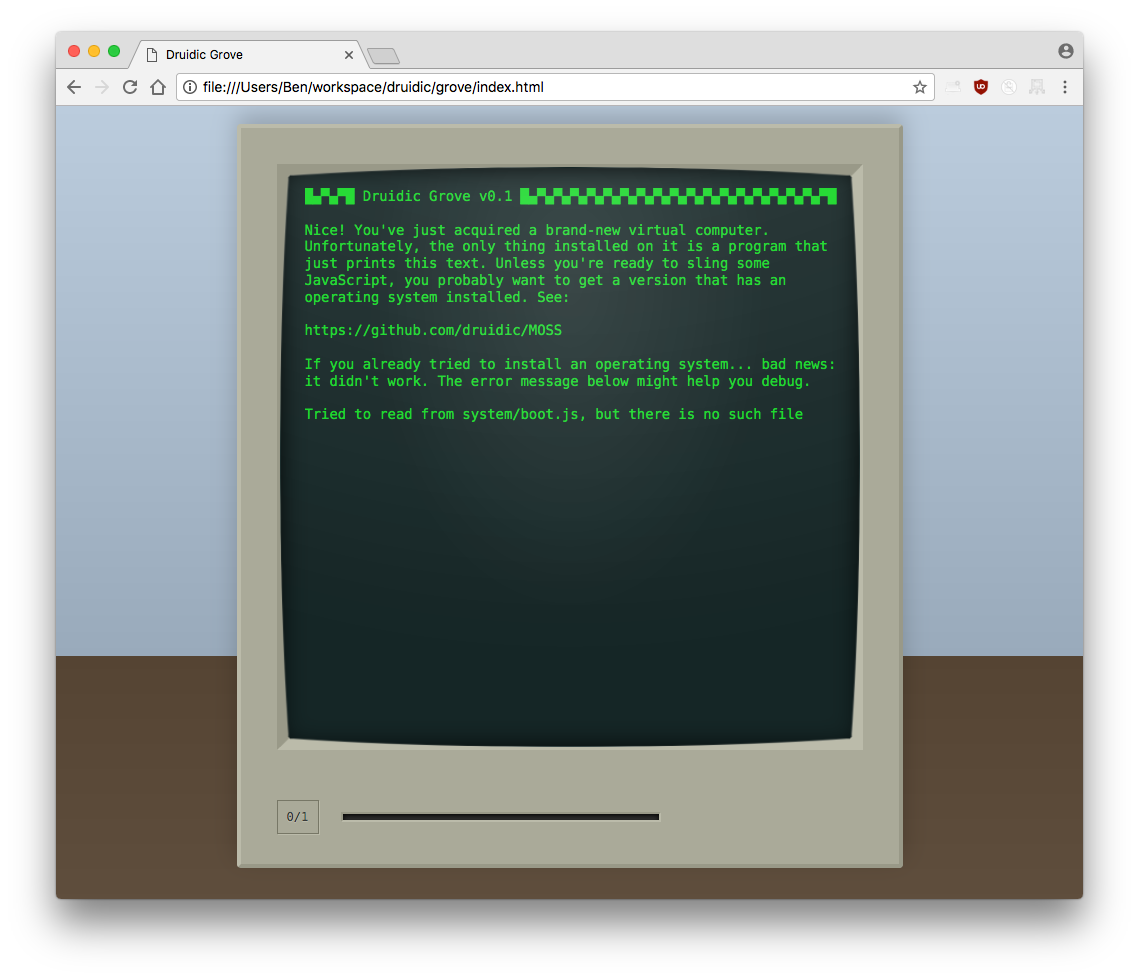
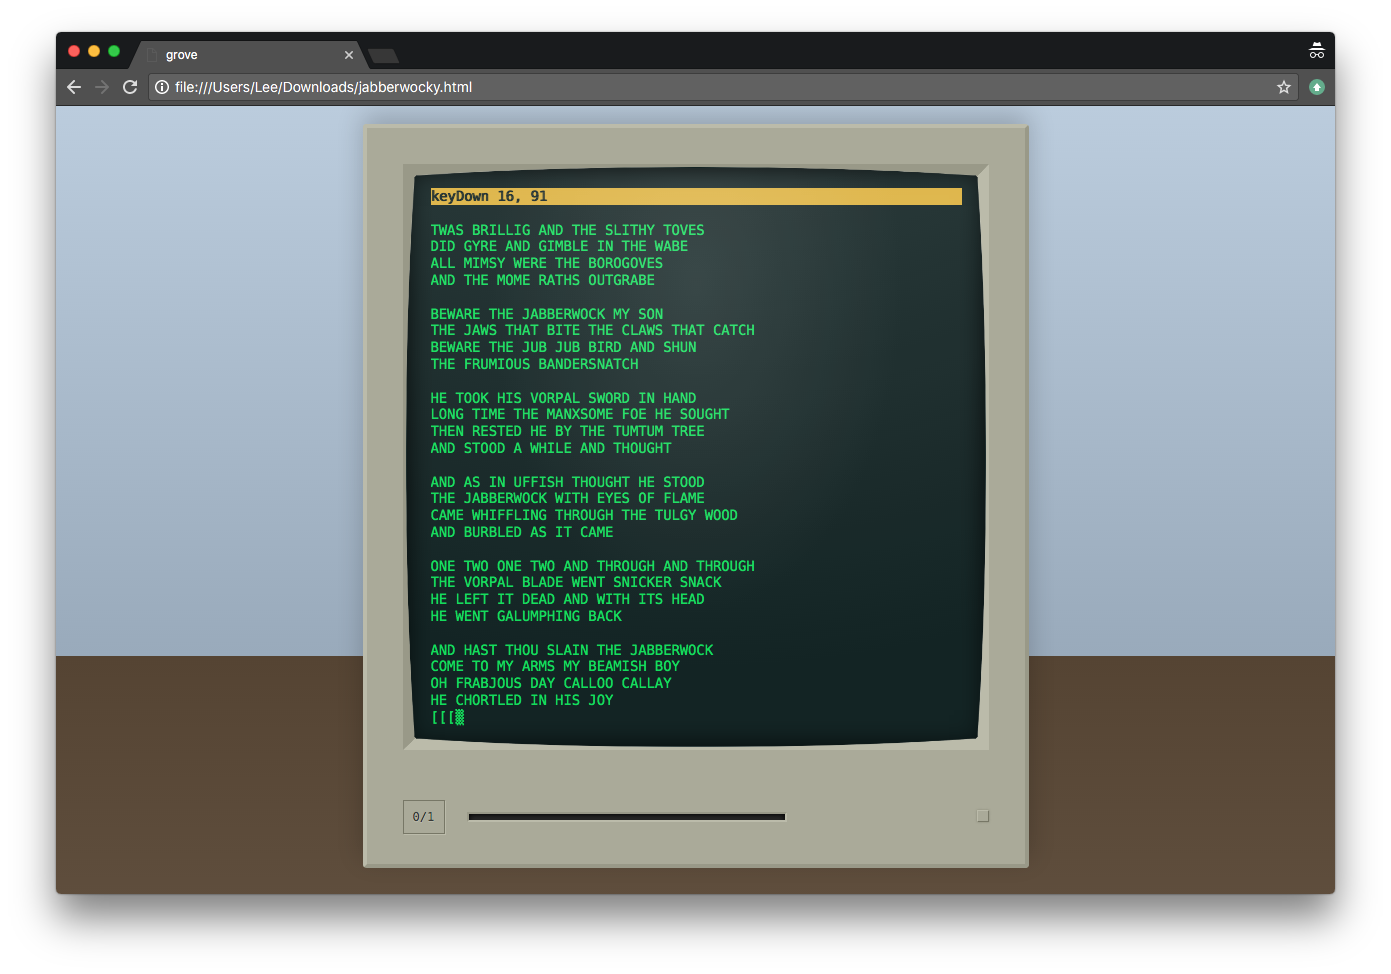
Update screenshot

Changed region(s): [[0.0307, 0.0308, 0.9833, 0.924]]

diff --git a/testOS.js b/testOS.js
@@ -5,7 +5,8 @@ function main(event, dataRecorder) {
   var toSave = {}
   if (event.type === 'startup') {
     text = dataRecorder.read('myfile')
-    return 'Start typing! Text is saved when you press ENTER.'
+    return systemBar('Start typing! Text is saved when you press ENTER.')
+      .concat(cursor(text).split('\n'))
   }
 
   if (event.type === 'keyDown') {
@@ -36,8 +37,22 @@ function main(event, dataRecorder) {
   var eventOutput =
     '' + event.type + ' ' + Object.keys(keys).join(', ')
   return {
-    screen: [eventOutput]
-      .concat(text.split('\n')),
+    screen: systemBar(eventOutput)
+      .concat(cursor(text).split('\n')),
     records: toSave
   }
+}
+
+function systemBar(string) {
+  var style = {
+    fg: 'black',
+    bg: 'goldenrod',
+    b: 1
+  }
+
+  return [LineBuffer(string, style)]
+}
+
+function cursor(string) {
+  return string + '\u2592'
 }
